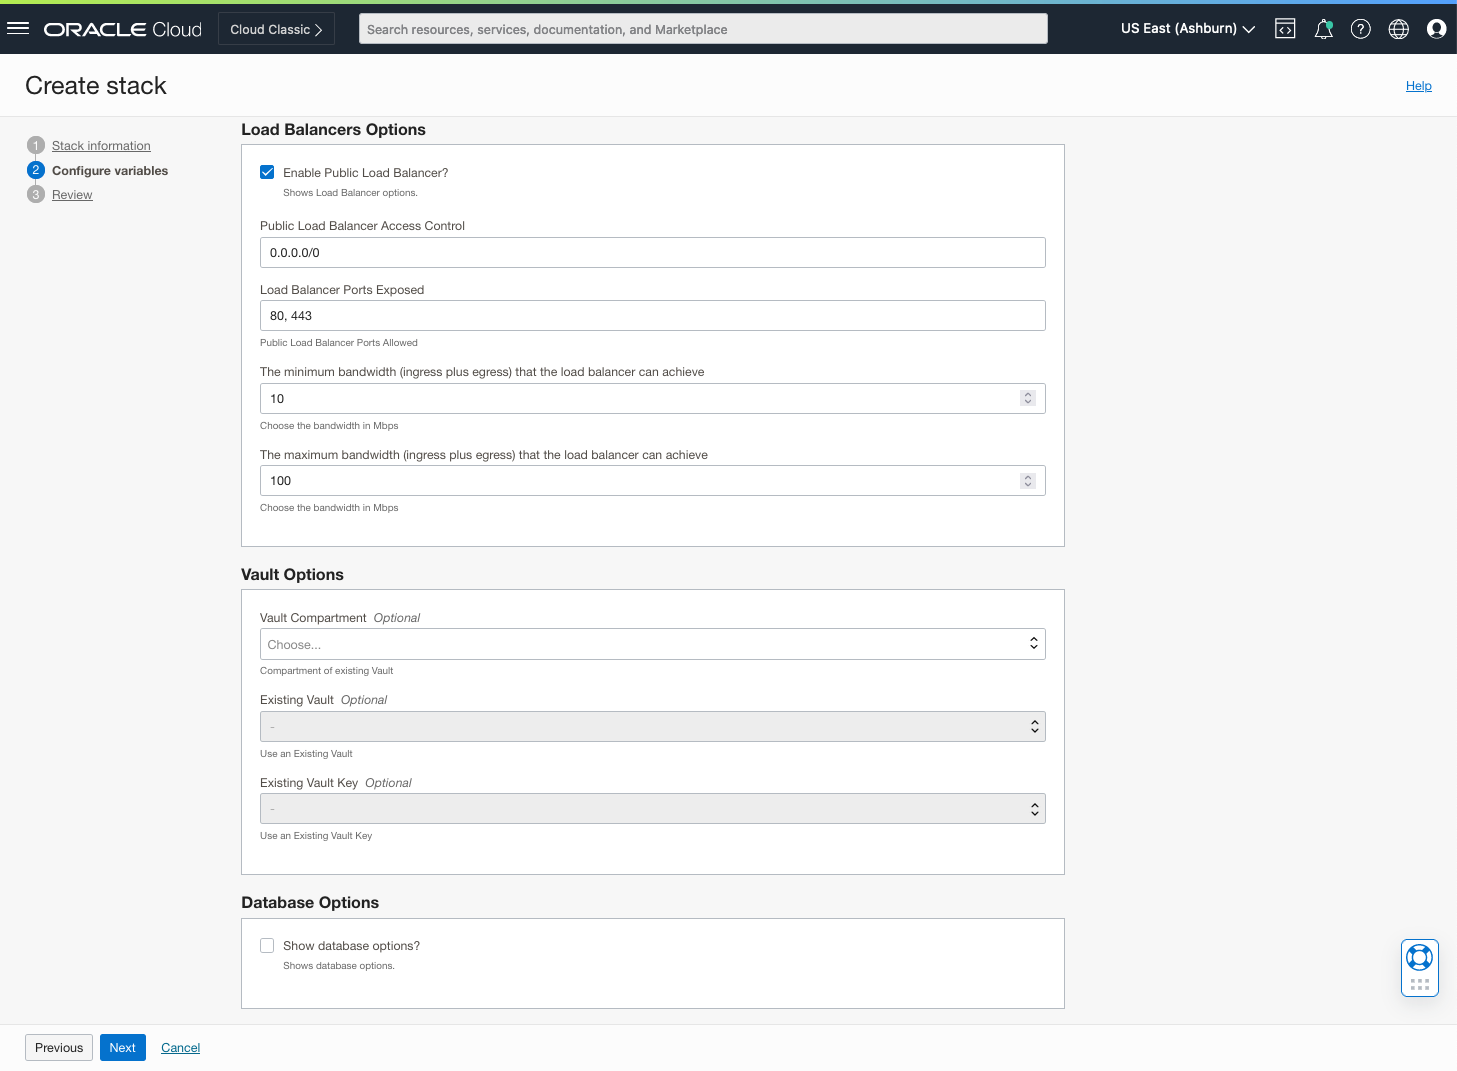
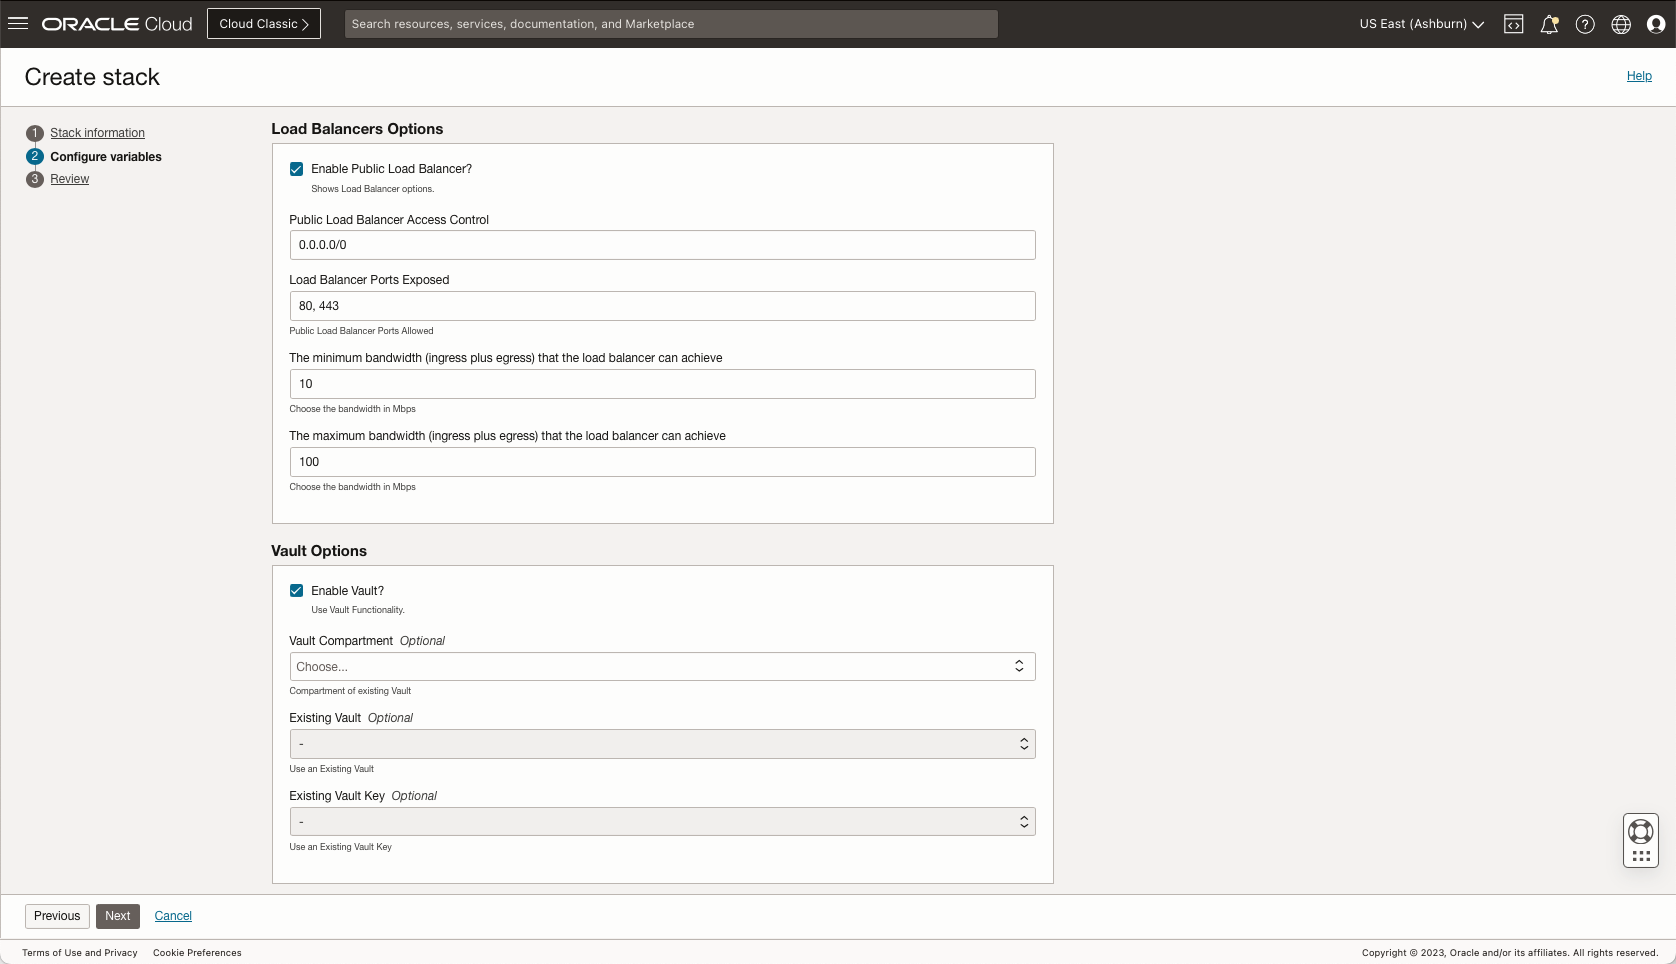
Doc Updates

diff --git a/docs-source/spring/content/setup/_index.md b/docs-source/spring/content/setup/_index.md
@@ -40,6 +40,18 @@ resources:
   - name: oci-stack-output-oke
     src: "oci-stack-output-oke.png"
     title: "Get Kube Config Cmd"
+  - name: oci-stack-db-options
+    src: "oci-stack-db-options.png"
+    title: "Database Options"
+  - name: oci-stack-parse-options
+    src: "oci-stack-parse-options.png"
+    title: "Parse Server Options"
+  - name: oci-stack-app-name
+    src: "oci-stack-app-name.png"
+    title: "Compartment and Application Name"
+  - name: ebaas-mp-listing
+    src: "ebaas-mp-listing.png"
+    title: "Marketplace Listing"
 ---
 
 Oracle Backend for Spring Boot is available in the [OCI Marketplace](https://cloudmarketplace.oracle.com/marketplace/en_US/listing/138899911).
@@ -77,11 +89,15 @@ Oracle Backend for Spring Boot setup will install the following components:
 | Spring Admin Server          | 2.7.5        | Managing and monitoring Spring Boot applications.                                        |
 | Spring Cloud Config Server   | 2.7.5        | Provides server-side support for externalized configuration.                             |
 | Eureka Service Registry      | 3.1.4        | Provides Service Discovery capabilities                                                  |
-| HashiCorp Vault              | 1.11.3       | Provides a way of store and tightly control access to sensitive data                     |
-| Oracle Database Operator     | 0.6.1        | Helps reduce the time and complexity of deploying and managing Oracle Databases.         |
+| HashiCorp Vault              | 1.14.0       | Provides a way of store and tightly control access to sensitive data                     |
+| Oracle Database Operator     | 1.0        | Helps reduce the time and complexity of deploying and managing Oracle Databases.         |
 | Oracle Transaction Manager for Microservices | 22.3.1 | Manages distributed transactions to ensure consistency across microservices    |
 | Strimzi Kafka Operator       | 0.33.1        | Manages Kafka clusters                                                                  |
 | Apacha Kafka                 | 3.2.0 - 3.3.2 | Distributed event streaming                                                             |
+| Coherence                    | 3.2.11 | In-memory data grid |
+| Parse Server (optional)                | 6.2.0        | Provides backend services for mobile and web applications                                |
+| Parse Dashboard (optional)             | 5.0.0        | Web user interface for managing Parse Server                                             |
+| Oracle Storage Adapter for Parse  (optional) | 0.2.0    | Enables Parse Server to store data in Oracle Database                                    |
 
 ## Overview of setup process
 
@@ -94,7 +110,7 @@ This video provides a quick overview of the setup process.
 1. Go to the [OCI Marketplace listing for Oracle Backend for Spring Boot](https://cloud.oracle.com/marketplace/application/138899911).
 
     <!-- spellchecker-disable -->
-    ![OCI Marketplace listing](../ebaas-mp-listing.png)
+    {{< img name="ebaas-mp-listing" size="large" lazy=false >}}
     <!-- spellchecker-enable -->
 
     Choose the target compartment, agree to the terms and click on the "Launch Stack" button.  This will start the wizard to create the new stack. On the first page choose a compartment to host your stack and select `Next`
@@ -105,12 +121,30 @@ This video provides a quick overview of the setup process.
 
     Fill in the following configuration variables as needed and select `Next`
 
-    - `Application Name` (Optional)
+    - `Compartment` : Select the Compartment where you want to install Oracle BAckend ofr Spring Boot
+    - `Application Name` (Optional) : A random animal name will be used as application name if left empty.
+
+    <!-- spellchecker-disable -->
+    {{< img name="oci-stack-app-name" size="large" lazy=false >}}
+    <!-- spellchecker-enable -->
+
+    - Parse Server.
+        - `Application ID` : (Optional) Leave blank to auto-generate.
+        - `Server Master Key` : (Optional) Leave blank to auto-generate.
+        - `Dashboard Username` : The username of the user to grant access to the dashboard.
+        - `Dashboard Password` : The password of the Dashboard USer (minimum 12 characters)
+
+    <!-- spellchecker-disable -->
+    {{< img name="oci-stack-parse-options" size="large" lazy=false >}}
+    <!-- spellchecker-enable -->
+
     - OKE Control Plane Options.
         - `Public Control Plane`: this option allows access the OKE Control Plane from the Internet (Public IP). If not selected, access will only be from a private VCN.
         - `Control Plane Access Control`: CIDR (IP range) allowed to access the control plane (Oracle recommends you set this as restrictive as possible).
         - `Enable Horizontal Pod Scaling?`: The [Horizontal Pod Autoscaler](https://docs.oracle.com/en-us/iaas/Content/ContEng/Tasks/contengusinghorizontalpodautoscaler.htm#Using_Kubernetes_Horizontal_Pod_Autoscaler) can help applications scale out to meet increased demand, or scale in when resources are no longer needed.
         - `Node Pool Workers`: Number of Kubernetes worker nodes (virtual machines) to attach to the OKE Cluster.
+        - `Node Pool Worker Shape` : The shape of the Node Pool Workers.
+        - `Node Workers OCPU` : The initial number of OCPUs for the Node Pool Workers
 
     <!-- spellchecker-disable -->
     {{< img name="oci-private-template-create-stack-config" size="large" lazy=false >}}
@@ -122,14 +156,32 @@ This video provides a quick overview of the setup process.
         - `Minimum bandwidth`. The minimum bandwidth the load balancer can achieve.
         - `Maximum bandwidth`. The maximum bandwidth the load balancer can achieve.
 
-    - Vault Options. You have the option of creating a new OCI Vault or use an an existing OCI Vault. Fill in the information below if you want  to use an existing OCI Vault.
+    - Vault Options. If you select `Enable Vault` You have the option of creating a new OCI Vault or use an an existing OCI Vault. Fill in the information below if you want to use an existing OCI Vault.
         - `Vault Compartment (Optional)` Select a Compartment for the OCI Vault.
         - `Existing Vault (Optional)`. Select an existing OCI Vault
         - `Existing Vault Key (Optional)`. Select an existing OCI Vault Key.
         - `Maximum bandwidth`. The maximum bandwidth the load balancer can achieve.
 
+      If you unselect `Enable Vault` HashiCorp Vault will be installed in Development mode 
+
+    {{< hint type=[warning] icon=gdoc_check title=Warning >}}
+    Warning: Never, ever, ever run a "development" mode server in production. It is insecure and will lose data 
+    on every restart (since it stores data in-memory). It is only made for development or experimentation.
+    {{< /hint >}}
+
     <!-- spellchecker-disable -->
     {{< img name="oci-private-template-create-stack-config-lb-vault" size="large" lazy=false >}}
+    <!-- spellchecker-enable -->
+
+    - Database Options. If you check `Show Database Options` you can modify the following values.
+      - `Autonomous Database Network Access` : Choose the Autonomous Database Network Access.
+      - `Autonomous Database CPU Core Count` : How many initial OCPUs will be used for the ADB-S instance.
+      - `Allow Autonomous Database OCPU Auto Scaling` : Turn on ADB-S autoscaling.
+      - `Autonomous Database Data Storage Size` : ADB-S initial data storage size in TB.
+      - `Autonomous Database License Model` : Autonomous Database license model.
+
+    <!-- spellchecker-disable -->
+    {{< img name="oci-stack-db-options" size="large" lazy=false >}}
     <!-- spellchecker-enable -->
 
     Now you can review the stack configuration and save the changes.  Oracle recommends that you do not check the "Run apply" option - this will give you the opportunity to run the "plan" first and check for issues.

diff --git a/docs-source/spring/content/release-notes/_index.md b/docs-source/spring/content/release-notes/_index.md
@@ -1,7 +1,31 @@
+## Developer Preview 0.7.0, July 24, 2023
+
+Notes:
+
+* Continued incremental improvements to Oracle Database Adapter for Parse Server
+
+The following Components were added:
+
+| Component                    | Version   | Description         |
+|------------------------------|---------------|---------------------|
+| Coherence | 3.2.11 | In-memory data grid |
+
+The following components were updated:
+
+| Component                    | New Version   | Replaced Version    |
+|------------------------------|---------------|---------------------|
+| Oracle Backend for Spring Boot Visual Studio Code Extension | 0.3.9 | 0.3.8 |
+| HashiCorp Vault              |  1.14.0 | v1.11.3 |
+| Oracle Database Operator for Kubernetes | 1.0 | 0.6.1 |
+| Parse Server                 | 6.2.0  | 5.2.7        |
+
+There were no component deprecations or removals.
+
 ## Developer Preview 0.3.1, June 14, 2023
 
 Notes:
-* Improvements to OCI Installation process
+
+* Improvements to OCI Installation process.
 * Continued incremental improvements to Oracle Database Adapter for Parse Server
 
 No components were added:
@@ -18,6 +42,7 @@ There were no component deprecations or removals.
 ## Developer Preview 0.3.0, April 17, 2023
 
 Notes:
+
 * Oracle Backend for Spring Boot now includes the option to install in a Multi-Cloud (OCI/Azure) Environment.
 * The Oracle Database Operator for Kubernetes will be bound the existing ADB created by IaC in an all-OCI installation and will provision the ADB in the multi-cloud installation.
 * Improvements to On-Premises and Desktop Installation process
@@ -38,7 +63,7 @@ There were no component deprecations or removals.
 
 ## Developer Preview 0.2.3, March 8, 2023
 
-Notes: 
+Notes:
 
 * Oracle Backend for Spring Boot now includes the option to also install Parse Platform in the same deployment.
 * Oracle Backend for Spring Boot CLI 0.2.3 includes a number of bug fixes, and adds support for custom listen ports for services.
